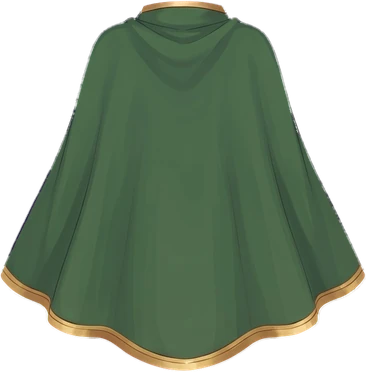
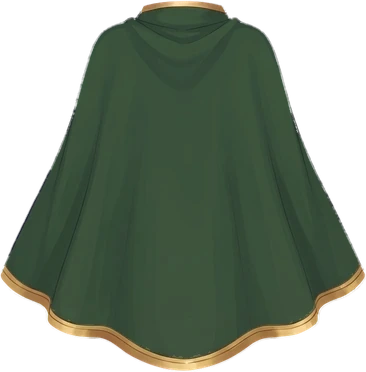
fix(rig): inside of the capes stays behind the body
- Capelet lining seen through the front opening (collar inside and the two
  lower inner panels, and the front inner flap in side view) is split into
  its own layer drawn behind neck and torso.
- The long cape in front view is seen from the inside, so it is shaded as
  lining instead of showing its outer face.
- The skin stub under each puff-sleeve cuff is cut, so the elbow no longer
  shows a round knob.

Claude-Session: https://claude.ai/code/session_0178JCr5DuUpPvDwy7b6AxGM

diff --git a/sw.js b/sw.js
@@ -49,8 +49,8 @@ const PRECACHE_URLS = [
   "./assets/art/avatar/back/leg_right.webp",
   "./assets/art/avatar/back/neck.webp",
   "./assets/art/avatar/back/skirt.webp",
-  "./assets/art/avatar/back/sleeve_left.webp",
-  "./assets/art/avatar/back/sleeve_right.webp",
+  "./assets/art/avatar/back/sleeve_left.webp?v=2",
+  "./assets/art/avatar/back/sleeve_right.webp?v=2",
   "./assets/art/avatar/back/torso.webp",
   "./assets/art/avatar/boots/back_left.webp",
   "./assets/art/avatar/boots/back_right.webp",
@@ -65,7 +65,7 @@ const PRECACHE_URLS = [
   "./assets/art/avatar/expressions/head_neutral.webp?v=2",
   "./assets/art/avatar/expressions/head_surprised.webp?v=2",
   "./assets/art/avatar/front/bag.webp",
-  "./assets/art/avatar/front/cape.webp",
+  "./assets/art/avatar/front/cape.webp?v=2",
   "./assets/art/avatar/front/capelet.webp?v=2",
   "./assets/art/avatar/front/capelet_inner.webp?v=2",
   "./assets/art/avatar/front/forearm_left.webp",
@@ -74,8 +74,8 @@ const PRECACHE_URLS = [
   "./assets/art/avatar/front/head.webp?v=2",
   "./assets/art/avatar/front/neck.webp?v=2",
   "./assets/art/avatar/front/skirt.webp",
-  "./assets/art/avatar/front/sleeve_left.webp",
-  "./assets/art/avatar/front/sleeve_right.webp",
+  "./assets/art/avatar/front/sleeve_left.webp?v=2",
+  "./assets/art/avatar/front/sleeve_right.webp?v=2",
   "./assets/art/avatar/front/thigh_left.webp",
   "./assets/art/avatar/front/thigh_right.webp",
   "./assets/art/avatar/front/torso.webp",
@@ -83,7 +83,8 @@ const PRECACHE_URLS = [
   "./assets/art/avatar/side/arm_near.webp",
   "./assets/art/avatar/side/bag.webp",
   "./assets/art/avatar/side/cape.webp",
-  "./assets/art/avatar/side/capelet.webp",
+  "./assets/art/avatar/side/capelet.webp?v=2",
+  "./assets/art/avatar/side/capelet_inner.webp?v=2",
   "./assets/art/avatar/side/hair_back.webp",
   "./assets/art/avatar/side/head.webp",
   "./assets/art/avatar/side/head_blink.webp",

diff --git a/tools/neck_fit.py b/tools/neck_fit.py
@@ -75,34 +75,85 @@ if __name__ == "__main__":
         feather_stub(src, ROOT / "assets/art/avatar/expressions" / src.name.replace("expressions_", ""))
 
 
-def split_collar(src: Path, inner_dst: Path, outer_dst: Path, tol: float = 38) -> None:
-    """Split the capelet's stand collar so the neck can sit inside it: the
-    collar's inner back (dark lining + back rim) becomes its own layer drawn
-    behind the neck; the trimmed front edges stay in front."""
+
+def _regions(a):
+    """Label the cloth areas separated by the gold trim."""
+    from scipy import ndimage as nd
+    rgb = a[..., :3] / 255
+    mx, mn = rgb.max(-1), rgb.min(-1)
+    sat = (mx - mn) / (mx + 1e-6)
+    r, g, b = rgb[..., 0], rgb[..., 1], rgb[..., 2]
+    gold = nd.binary_dilation((r > g * 0.95) & (r > b * 1.25) & (mx > 0.38) & (sat > 0.25), iterations=1)
+    lab, _ = nd.label((a[..., 3] > 120) & ~gold)
+    return lab, gold
+
+
+def split_lining(src: Path, inner_dst: Path, outer_dst: Path, seeds, back_rim=False) -> None:
+    """Split a capelet into its inside (lining seen through the opening, which
+    must sit behind the body) and its outside. Seeds (fractions of width and
+    height) pick the lining areas between the gold trims."""
     from scipy import ndimage as nd
     a = np.array(Image.open(src).convert("RGBA")).astype(float)
     h, w = a.shape[:2]
-    seed = (int(h * 0.12), w // 2)
-    d = np.sqrt(((a[..., :3] - a[seed][:3]) ** 2).sum(-1))
-    lab, _ = nd.label((d < tol) & (a[..., 3] > 200))
-    comp = lab == lab[seed]
-    ys, xs = np.where(comp)
-    top = ys.min()
-    band = comp[top:top + 8].any(0)
-    x0, x1 = np.where(band)[0][[0, -1]]
-    rim = np.zeros_like(comp)
-    rim[:top + 3, max(0, x0 - 3):x1 + 4] = True
-    mask = nd.binary_fill_holes(nd.binary_dilation(comp, iterations=1)) | (rim & (a[..., 3] > 0))
+    lab, gold = _regions(a)
+    ids = {lab[int(fy * h), int(fx * w)] for fx, fy in seeds} - {0}
+    mask = nd.binary_fill_holes(nd.binary_dilation(np.isin(lab, list(ids)), iterations=1))
+    if back_rim:  # the gold rim along the back of the collar is behind the neck too
+        ys, xs = np.where(mask)
+        top = ys.min()
+        band = mask[top:top + 8].any(0)
+        x0, x1 = np.where(band)[0][[0, -1]]
+        rim = np.zeros_like(mask)
+        rim[:top + 3, max(0, x0 - 3):x1 + 4] = True
+        mask |= rim & (a[..., 3] > 0)
     soft = nd.gaussian_filter(mask.astype(float), 0.7)
     inner, outer = a.copy(), a.copy()
     inner[..., 3] *= soft
     outer[..., 3] *= 1 - soft
     for arr, dst in ((inner, inner_dst), (outer, outer_dst)):
         Image.fromarray(arr.clip(0, 255).astype(np.uint8)).save(dst, "WEBP", quality=92, method=6)
-    print("collar lining rows", top, "-", ys.max(), "cols", x0, "-", x1)
+    print(dst.parent.name, "lining px", int(mask.sum()))
+
+
+def cape_inside(src: Path, dst: Path, shade: float = 0.68) -> None:
+    """Front view shows the long cape from the inside: darken the cloth (not the
+    gold hem) so it reads as the lining rather than the outer face."""
+    a = np.array(Image.open(src).convert("RGBA")).astype(float)
+    _, gold = _regions(a)
+    lining = np.array((48, 68, 58), float)
+    cloth = ~gold
+    a[cloth, :3] = a[cloth, :3] * shade + lining * (1 - shade) * 0.5
+    Image.fromarray(a.clip(0, 255).astype(np.uint8)).save(dst, "WEBP", quality=92, method=6)
+
+
+def trim_cuff(src: Path, dst: Path) -> None:
+    """Cut the bare-skin stub painted under a puff sleeve's gold cuff; the
+    forearm drawn behind shows through instead, so no round knob at the elbow."""
+    from scipy import ndimage as nd
+    a = np.array(Image.open(src).convert("RGBA")).astype(float)
+    h, w = a.shape[:2]
+    r, g, b = a[..., 0], a[..., 1], a[..., 2]
+    op = a[..., 3] > 150
+    skin = op & (r > 190) & (b > r * 0.62) & (g > r * 0.62)
+    share = skin.sum(1) / np.maximum(1, op.sum(1))
+    lower = np.arange(h) > h * 0.55
+    rows = np.where(lower & (share > 0.5))[0]
+    cut = rows.min() if len(rows) else h
+    fade = np.ones(h)
+    fade[cut:] = 0
+    fade[max(0, cut - 2):cut] = 0.6
+    a[..., 3] *= fade[:, None]
+    Image.fromarray(a.clip(0, 255).astype(np.uint8)).save(dst, "WEBP", quality=92, method=6)
+    print(dst.relative_to(ROOT), "cut at row", cut, "of", h)
 
 
 if __name__ == "__main__":
-    split_collar(ROOT / "tools/rig_src/front_capelet.webp",
-                 ROOT / "assets/art/avatar/front/capelet_inner.webp",
-                 ROOT / "assets/art/avatar/front/capelet.webp")
+    av = ROOT / "assets/art/avatar"
+    for v in ("front", "back"):
+        for sd in ("left", "right"):
+            trim_cuff(ROOT / f"tools/rig_src/{v}_sleeve_{sd}.webp", av / f"{v}/sleeve_{sd}.webp")
+    split_lining(ROOT / "tools/rig_src/front_capelet.webp", av / "front/capelet_inner.webp", av / "front/capelet.webp",
+                 [(0.5, 0.12), (0.42, 0.82), (0.58, 0.82)], back_rim=True)
+    split_lining(ROOT / "tools/rig_src/side_capelet.webp", av / "side/capelet_inner.webp", av / "side/capelet.webp",
+                 [(0.92, 0.55), (0.76, 0.19), (0.86, 0.41)])
+    cape_inside(ROOT / "tools/rig_src/front_cape.webp", av / "front/cape.webp")
